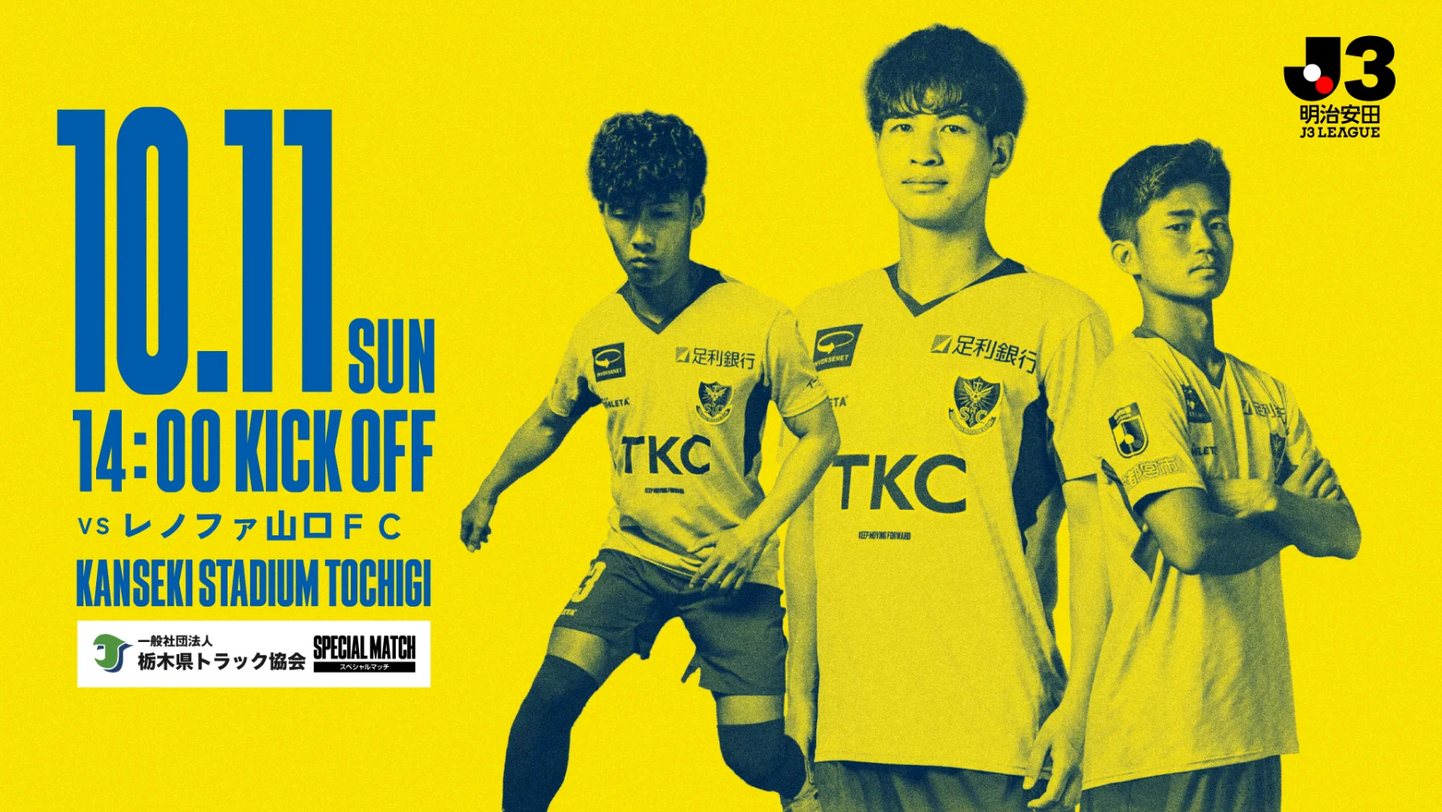
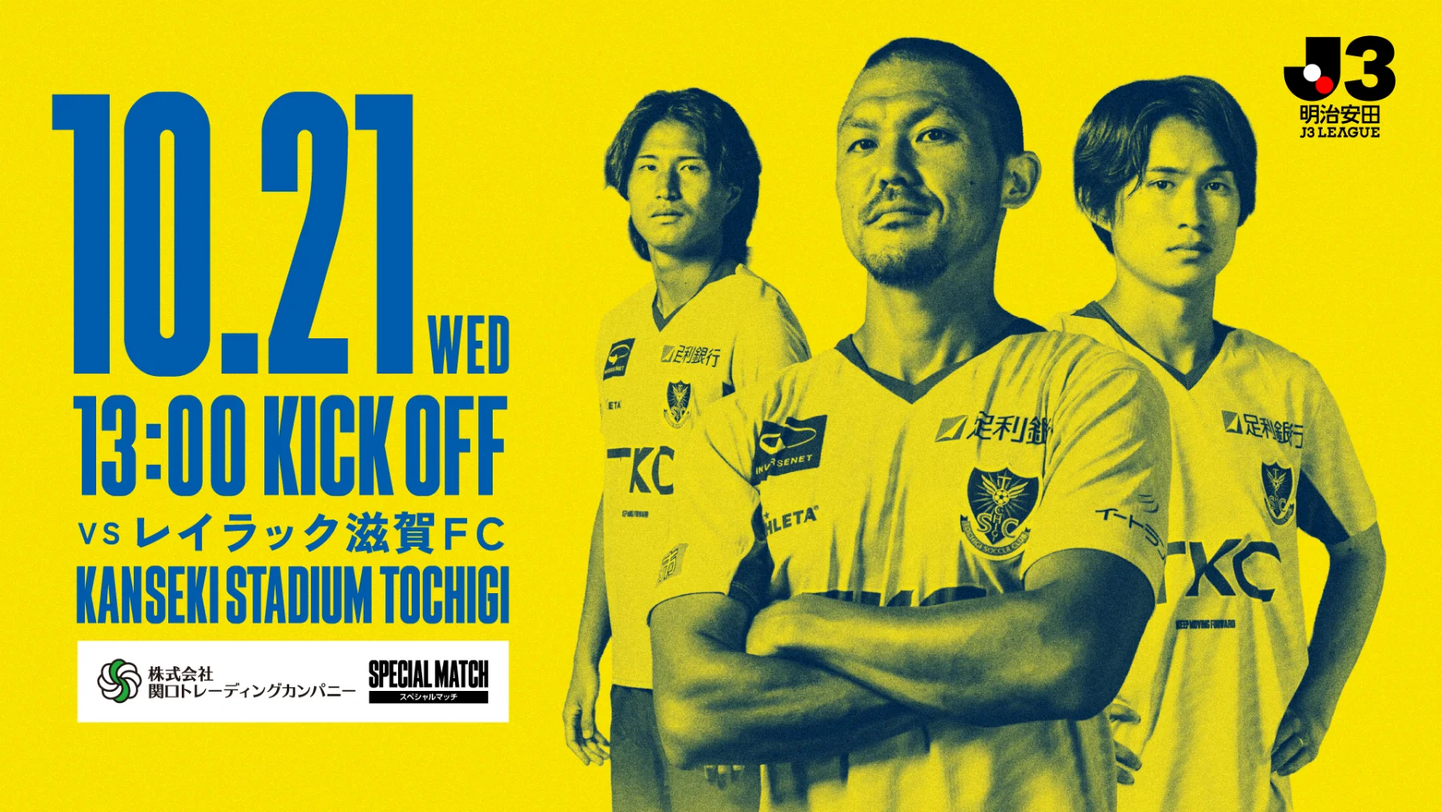
Add files via upload

diff --git a/check/index.html b/check/index.html
@@ -14,7 +14,7 @@ if(location.hostname.endsWith('github.io')){
 }
 </script>
 <meta name="viewport" content="width=device-width, initial-scale=1.0">
-<title>栃木SC ホームゲームLP ｜ 10/11 レノファ山口FC戦</title>
+<title>栃木SC ホームゲームLP ｜ 10/21 レイラック滋賀FC戦</title>
 <link rel="icon" type="image/png" href="assets/img/favicon.png">
 <link rel="apple-touch-icon" href="assets/img/appleTouchIcon.png">
 <link rel="preconnect" href="https://fonts.googleapis.com">
@@ -526,14 +526,14 @@ if(location.hostname.endsWith('github.io')){
     <!-- MATCH CARD -->
   <div class="match">
     <div class="mt-meta">
-      <div class="mt-league">2026/27 明治安田J3リーグ 第10節</div>
-      <div class="mt-ko">14:00 KICK OFF</div>
+      <div class="mt-league">2026/27 明治安田J3リーグ 第12節</div>
+      <div class="mt-ko">13:00 KICK OFF</div>
       <div class="mt-ven">カンセキスタジアムとちぎ</div>
     </div>
     <div class="teams">
       <div class="team"><div class="em" style="background-image:var(--tsc);background-size:116%;background-repeat:no-repeat;background-position:center"></div><div class="nm">栃木SC</div><div class="role">HOME</div></div>
       <div class="vs">VS</div>
-      <div class="team"><div class="em" style="background-image:var(--opp);background-size:contain;background-repeat:no-repeat;background-position:center"></div><div class="nm" style="white-space:nowrap;font-size:min(18px,calc((100vw - 87px)*0.0638))">レノファ山口FC</div><div class="role">VISITOR</div></div>
+      <div class="team"><div class="em" style="background-image:var(--opp);background-size:contain;background-repeat:no-repeat;background-position:center"></div><div class="nm" style="white-space:nowrap;font-size:min(18px,calc((100vw - 87px)*0.0561))">レイラック滋賀FC</div><div class="role">VISITOR</div></div>
     </div>
   </div>
 
@@ -586,36 +586,24 @@ probe(pas,function(p){probe(fut,function(n){
     <div class="diag"></div>
   </div>
 
-  <!-- 10/11 山口戦 会場運営変更のお知らせ -->
-  <style>
-  .ops-notice{margin:18px 16px 8px;padding:15px 16px;background:#fff;border:2px solid var(--yellow);border-left:6px solid var(--yellow);border-radius:12px;box-shadow:0 3px 12px rgba(4,34,66,.10);display:flex;align-items:flex-start;gap:12px}
-  .ops-notice .ic{flex:none;width:28px;height:28px;border-radius:50%;background:var(--yellow);color:var(--navy);font-family:var(--latin);font-weight:900;display:flex;align-items:center;justify-content:center;line-height:1}
-  .ops-notice .tx{min-width:0;font-size:14px;font-weight:700;line-height:1.7;color:var(--navy)}
-  .ops-notice .more{display:inline-block;margin-top:6px;color:var(--blue);font-weight:900;text-decoration:underline;text-underline-offset:2px}
-  </style>
-  <div class="ops-notice" role="note">
-    <div class="ic" aria-hidden="true">!</div>
-    <div class="tx">各イベント等の実施に伴い、通常より一部会場運用を変更させていただきます。<br><a class="more" href="https://www.tochigisc.jp/news/1954" target="_blank" rel="noopener">詳細はこちら ›</a></div>
-  </div>
-
   <!-- スペシャルイベント -->
-  <section class="special band-white"><div class="head"><span class="hicon"><svg viewBox="0 0 24 24"><path d="M4 8h16v11a1 1 0 0 1-1 1H5a1 1 0 0 1-1-1z"/><path d="M4 8l2-4h12l2 4"/><path d="M9 12h6"/></svg></span><span class="disp">SPECIAL EVENT</span><h2><span class="mk">スペシャルイベント</span></h2></div><div class="sp-stack"><div class="sp-card"><div class="sp-photo np" data-lz style="background-image:url(assets/img/spSub9.webp)"></div><div class="sp-body"><h3 class="sp-h">栃木県トラック協会　オリジナルホッケーシャツプレゼント</h3><p class="sp-lead">抽選で5,000名様にプレゼント！</p><p>◼協賛：一般社団法人栃木県トラック協会</p><div class="sp-terms"><div><b>◼配布時間</b>： 10:30～<br></div><div>※入場時に配布する栃木県トラック協会のチラシにより抽選いたします）<br></div><div><b>◼配布場所</b>： Aゲート・Cゲート（ビジターゲートを除く）<br></div><div><b>◼抽選方法</b></div><div>・入場時にゲートで配布される「栃木県トラック協会チラシ」にて当落をご確認ください。</div><div>・当選された方のホッケーシャツ引換時間や引換場所等は、配布チラシをご確認ください。</div><div>※チケットをお持ちの来場者お一人様につき1枚の配布となります（未就学児・再入場時は対象外）。</div><div>※当選された方の引換は当日の引換時間内のみです。</div><div>※十分な数のチラシ（10,000枚）をご用意しておりますので、当日は入場ゲートに早くから並ばず、栃木県トラック協会の場外イベントをお楽しみください。</div></div><a class="sp-link" href="https://www.tochigisc.jp/news/1904" target="_blank" rel="noopener">詳細はこちら ›</a></div></div><div class="sp-card"><div class="sp-photo np" data-lz style="background-image:url(assets/img/spSub10.webp)"></div><div class="sp-body"><h3 class="sp-h">栃木県トラック協会　トラックステージ</h3><p class="sp-lead">今年のトラックステージにはニッチェのお二人も登場！<br>その他のステージイベントも盛りだくさん。</p><div class="sp-terms"><div><b>◼時間</b>：10:15～13:30頃</div><div>※ニッチェのお二人の登場時間やその他出演者等のイベント詳細は後日お知らせいたします。</div><div><b>◼場所</b>：アプローチデッキ下　トラックステージ</div></div><a class="sp-link" href="https://www.tochigisc.jp/news/1904" target="_blank" rel="noopener">詳細はこちら ›</a></div></div></div></section>
+  
 
   <div class="sec-div" aria-hidden="true"></div>
     <!-- イベント -->
   <section class="band-sec band-white" id="event">
     <div class="head"><span class="hicon"><svg viewBox="0 0 24 24"><path d="M4 8h16v11a1 1 0 0 1-1 1H5a1 1 0 0 1-1-1z"/><path d="M4 8l2-4h12l2 4"/><path d="M9 12h6"/></svg></span><span class="disp">EVENT</span><h2><span class="mk">イベント</span></h2></div>
     
-    <div class="dots"><i class="on"></i><i></i><i></i><i></i><i></i><i></i></div>
-    <div class="rail"><div class="card"><div class="ph lb-img" data-lz style="background-image:url(assets/img/evSub11.webp);background-size:contain;background-position:center;background-repeat:no-repeat;background-color:#fff"></div><div class="cb"><h4>【先着3,000名様】<br>栃木県トラック協会ブース 大抽選会</h4><div class="meta"><b>【整理券配布】</b><br>◼配布時間：9:45～<br>◼配布場所：栃木県トラック協会引換ブース<br><b>【抽選会】</b><br>◼抽選時間：10:00～<br>◼抽選場所：栃木県トラック協会抽選会ブース<br>※各ブースはアプローチデッキ下広場となります</div><div class="ev-desc"><br>豪華景品が当たる、空くじなしの大抽選会を実施！どなたでも1回ご参加いただけます。<br><br> ◼主な賞品<br>・全選手サイン入りユニフォーム（ホーム/アウェイ）<br>・選手サイン入りTシャツ<br>・サイン入りホッケーシャツ<br>・サイン色紙<br>・協会オリジナルグッズ　など</div><a class="sp-link" href="https://www.tochigisc.jp/news/1904" target="_blank" rel="noopener">詳細はこちら ›</a></div></div><div class="card"><div class="ph lb-img" data-lz style="background-image:url(assets/img/evSub12.webp);background-size:contain;background-position:center;background-repeat:no-repeat;background-color:#fff"></div><div class="cb"><h4>栃木県トラック協会<br>体験イベント＆グルメブース</h4><div class="meta">◼時間：10:00～14:00<br>◼場所：アプローチデッキ・アプローチデッキ下</div><div class="ev-desc">◼栃木県トラック協会 各支部飲食ブース<br>県内各支部による自慢のグルメが勢ぞろい！<br>※原則現金払い<br>◼子供用電動トラック体験<br>ラジコン感覚でトラックドライバーの仕事を体験できます。<br>（小学生未満限定 / 体重25kg以下 / リモコン操作体験あり）<br>◼大型トラック・冷凍車 乗車体験<br>大型トレーラーや大型冷凍車の運転席に乗車できます。</div><a class="sp-link" href="https://www.tochigisc.jp/news/1904" target="_blank" rel="noopener">詳細はこちら ›</a></div></div><div class="card"><div class="ph lb-img" data-lz style="background-image:url(assets/img/evSub16.webp);background-size:contain;background-position:center;background-repeat:no-repeat;background-color:#fff"></div><div class="cb"><h4>トラックステージ①<br>星の杜中学校・高等学校部活動によるパフォーマンス</h4><div class="meta">時間：10:15〜10:50<br>場所：アプローチデッキ下 </div><div class="ev-desc">星の杜中学校・高等学校の3つの部活動にお越しいただき、パフォーマンスを行っていただきます！<br>10:20 箏曲部<br>10:30 チアリーディング部<br>10:45 書道部<br>※出演時間は多少前後する場合がございます</div></div></div><div class="card"><div class="ph lb-img" data-lz style="background-image:url(assets/img/evSub15.webp);background-size:contain;background-position:center;background-repeat:no-repeat;background-color:#fff"></div><div class="cb"><h4>トラックステージ②<br>SCチアーズ&SCチアーズスクール生</h4><div class="meta">時間：11:15〜11:45<br>場所：アプローチデッキ下</div><div class="ev-desc">SCチアーズ&SCチアーズスクール生によるトラックステージスペシャルパフォーマンスをお届けします！</div></div></div><div class="card"><div class="ph lb-img" data-lz style="background-image:url(assets/img/evSub14.webp);background-size:contain;background-position:center;background-repeat:no-repeat;background-color:#fff"></div><div class="cb"><h4>トラックステージ③<br>栃木SC TikTok LIVE 応援モデル</h4><div class="meta">時間：12:00〜12:15<br>場所：アプローチデッキ下</div><div class="ev-desc">栃木SC TikTok LIVE 応援モデルによるトークショーを実施します！</div></div></div><div class="card"><div class="ph lb-img" data-lz style="background-image:url(assets/img/evSub13.webp);background-size:contain;background-position:center;background-repeat:no-repeat;background-color:#fff"></div><div class="cb"><h4>Supported by 株式会社斎藤<br>選手直送！サインボールプレゼント</h4><div class="meta">◼時間：試合開始約45分前（ウォーミングアップ開始前）</div><div class="ev-desc">ウォーミングアップに向かう選手たちが、スタンドの皆さまへ直筆サイン入りボールを投げ入れ、プレゼントいたします。<br>どの選手のボールが飛んでくるかは当日のお楽しみ！</div><a class="sp-link" href="https://www.tochigisc.jp/news/1886" target="_blank" rel="noopener">詳細はこちら ›</a></div></div></div>
+    
+    <div class="rail"><div class="card"><div class="ph lb-img" data-lz style="background-image:url(assets/img/evSub1.webp);background-size:contain;background-position:center;background-repeat:no-repeat;background-color:#fff"></div><div class="cb"><h4>Supported by 株式会社斎藤　選手直送！サインボールプレゼント</h4><div class="meta">時間：試合開始約45分前（ウォーミングアップ開始前）</div><div class="ev-desc">ウォーミングアップに向かう選手たちが、スタンドの皆さまへ直筆サイン入りボールを投げ入れ、プレゼントいたします。<br>どの選手のボールが飛んでくるかは当日のお楽しみ！</div><a class="sp-link" href="https://www.tochigisc.jp/news/1886" target="_blank" rel="noopener">詳細はこちら ›</a></div></div></div>
   </section>
 
   <!-- グルメ -->
   <section class="band-sec band-soft" id="gourmet">
     <div class="head"><span class="hicon"><svg viewBox="0 0 24 24"><path d="M6 3v7a2 2 0 0 0 4 0V3M8 10v11"/><path d="M16 3c-1.5 0-2.5 2-2.5 4.5S14.5 12 16 12v9"/></svg></span><span class="disp">STADIUM GOURMET</span><h2><span class="mk">グルメ</span></h2><span class="subbrand">BISTRO TOCKEY</span></div>
-    <div class="dots"><i class="on"></i><i></i><i></i><i></i></div>
-    <div class="rail"><div class="card"><div class="ph lb-img" data-lz style="background-image:url(assets/img/goSub1.webp);background-size:contain;background-position:center;background-repeat:no-repeat;background-color:#fff"></div><div class="cb"><h4>オムライス</h4><div class="meta"><span class="shop">玉子屋てっちゃん</span><span class="price">¥1,000</span><span class="desc">新鮮卵と栃木県産こしひかりのオムライスです。</span></div></div></div><div class="card"><div class="ph lb-img" data-lz style="background-image:url(assets/img/goSub2.webp);background-size:contain;background-position:center;background-repeat:no-repeat;background-color:#fff"></div><div class="cb"><h4>ナポリタン</h4><div class="meta"><span class="shop">スポーツカフェ92</span><span class="price">¥750</span><span class="desc">ソーセージ、玉ねぎ、パプリカを自家製トマトソースとケチャップで！仕上げに粉チーズを！</span></div></div></div><div class="card"><div class="ph lb-img" data-lz style="background-image:url(assets/img/goSub3.webp);background-size:contain;background-position:center;background-repeat:no-repeat;background-color:#fff"></div><div class="cb"><h4>栃木・ご当地　佐野ラーメン</h4><div class="meta"><span class="shop">菊ちゃんラーメン</span><span class="price">¥890</span><span class="desc">栃木県のご当地ラーメン【佐野ラーメン】はあっさり醤油のスープに手打ち風麺の相性が抜群のお子様から大人まで食べやすいラーメンです。</span></div></div></div><div class="card"><div class="ph lb-img" data-lz style="background-image:url(assets/img/goSub4.webp);background-size:contain;background-position:center;background-repeat:no-repeat;background-color:#fff"></div><div class="cb"><h4>カフェモカ</h4><div class="meta"><span class="shop">ドードコーヒー</span><span class="price">¥702</span><span class="desc">当店オリジナルのブレンド豆を使用した本格エスプレッソとチョコレートソースを合わせますスイーツドリンク 見た目の可愛さもバッチリです。</span></div></div></div></div>
     
+    <div class="rail"></div>
+    <div class="sec-news"><p class="sn-lead">当日のグルメ情報満載！</p><a href="gourmet.html">グルメ情報をもっと見る <span class="arw">›</span></a></div>
   </section>
 
 
@@ -630,7 +618,7 @@ probe(pas,function(p){probe(fut,function(n){
   <section class="tl-sec">
     <div class="bg" data-lz style="background-image:var(--phTimeline)"></div>
     <div class="head"><span class="hicon"><svg viewBox="0 0 24 24"><circle cx="12" cy="12" r="9"/><path d="M12 7v5l3 2"/></svg></span><span class="disp">TIME TABLE</span><h2><span class="mk">当日のタイムライン</span></h2></div>
-    <div class="tl"><div class="row"><span class="dot"></span><div class="time">10:00</div><div class="c"><h4>シャトルバス運行開始（往路）</h4><p>雀宮駅発 → スタジアム行きの始発。早めの来場がおすすめ。</p></div></div><div class="row"><span class="dot"></span><div class="time">10:30</div><div class="c"><h4>優先入場 開始</h4><p>シーズンパスホルダー限定！場内のイベントや売店がスタート！</p></div></div><div class="row"><span class="dot"></span><div class="time">11:00</div><div class="c"><h4>一般入場 開始</h4></div></div><div class="row"><span class="dot"></span><div class="time">13:15</div><div class="c"><h4>ウォーミングアップ開始</h4><p>選手がピッチに登場。ウォーミングアップも必見！</p></div></div><div class="row"><span class="dot"></span><div class="time">13:45</div><div class="c"><h4>選手紹介</h4><p>かっこいい選手紹介映像でスタメンをチェック！</p></div></div><div class="row"><span class="dot"></span><div class="time">14:00</div><div class="c"><h4>KICK OFF</h4><p>いよいよ試合開始！</p></div></div><div class="row"><span class="dot"></span><div class="time">14:50</div><div class="c"><h4>ハーフタイム（15分間）</h4><p>腹ごしらえやトイレ休憩で後半に向けて準備をしよう！</p></div></div><div class="row"><span class="dot"></span><div class="time">15:50</div><div class="c"><h4>試合終了（目安）</h4><p>勝利したら、みんなで喜ぼう！</p></div></div><div class="row"><span class="dot"></span><div class="time">16:00</div><div class="c"><h4>シャトルバス運行開始（復路）</h4><p>スタジアム バス乗り場発 → 雀宮駅行きの始発。最終便は17:30発。</p></div></div></div>
+    <div class="tl"><div class="row"><span class="dot"></span><div class="time">10:00</div><div class="c"><h4>シャトルバス運行開始（往路）</h4><p>雀宮駅発 → スタジアム行きの始発。早めの来場がおすすめ。</p></div></div><div class="row"><span class="dot"></span><div class="time">10:30</div><div class="c"><h4>優先入場 開始</h4><p>シーズンパスホルダー限定！場内のイベントや売店がスタート！</p></div></div><div class="row"><span class="dot"></span><div class="time">11:00</div><div class="c"><h4>一般入場 開始</h4></div></div><div class="row"><span class="dot"></span><div class="time">12:15</div><div class="c"><h4>ウォーミングアップ開始</h4><p>選手がピッチに登場。ウォーミングアップも必見！</p></div></div><div class="row"><span class="dot"></span><div class="time">12:45</div><div class="c"><h4>選手紹介</h4><p>かっこいい選手紹介映像でスタメンをチェック！</p></div></div><div class="row"><span class="dot"></span><div class="time">13:00</div><div class="c"><h4>KICK OFF</h4><p>いよいよ試合開始！</p></div></div><div class="row"><span class="dot"></span><div class="time">13:50</div><div class="c"><h4>ハーフタイム（15分間）</h4><p>腹ごしらえやトイレ休憩で後半に向けて準備をしよう！</p></div></div><div class="row"><span class="dot"></span><div class="time">14:50</div><div class="c"><h4>試合終了（目安）</h4><p>勝利したら、みんなで喜ぼう！</p></div></div><div class="row"><span class="dot"></span><div class="time">15:00</div><div class="c"><h4>シャトルバス運行開始（復路）</h4><p>スタジアム バス乗り場発 → 雀宮駅行きの始発。最終便は16:30発。</p></div></div></div>
   </section>
 
   <!-- 会場マップ -->
@@ -670,16 +658,16 @@ probe(pas,function(p){probe(fut,function(n){
       <button class="access-tab" data-acc="train"><svg viewBox="0 0 24 24"><rect x="6" y="3" width="12" height="14" rx="2"/><path d="M6 11h12"/><circle cx="9" cy="14" r="1"/><circle cx="15" cy="14" r="1"/><path d="M8 21l2-3M16 21l-2-3"/></svg>電車・徒歩</button>
     </div>
     <div class="access-panel" data-panel="car">
-      <ul class="apts"><li><b>東北道 鹿沼IC</b>から約15分（さつきロード経由）</li><li><b>北関東道 壬生IC</b>から約20分／<b>宇都宮上三川IC</b>から約15分</li><li><b>駐車場</b>：南第1・第2（公園南側）／南管理用（公園西側）／北第3（公園北側）｜<b>2時間まで無料</b></li>
+      <ul class="apts"><li><b>東北道 鹿沼IC</b>から約15分（さつきロード経由）</li><li><b>北関東道 壬生IC</b>から約20分／<b>宇都宮上三川IC</b>から約15分</li><li><b>駐車場</b>：南第1・第2（公園南側）／西・南管理用（公園西側）／北第3（公園北側）｜<b>2時間まで無料</b></li>
       <li><b>精算</b>：現金（千円札・硬貨）／クレジットカード／交通系ほか電子マネー</li>
-      <li><b>北第1・北第2駐車場（予約制）</b>｜スタジアム目の前・栃木SC販売・事前予約で当日スムーズ｜1台 <b>¥2,500</b><br><span class="pk-sale">9/17(木) 12:00〜 CLUB.T会員先行販売</span></li><li><b>西駐車場（予約制）</b>｜栃木SC販売・事前予約で当日スムーズ｜1台 <b>¥2,000</b></li><li><b>akippa 予約制</b>（約500台)｜事前予約で当日スムーズ</li></ul>
+      <li><b>北第1・北第2駐車場（予約制）</b>｜スタジアム目の前・栃木SC販売・事前予約で当日スムーズ｜1台 <b>¥1,500</b><br><span class="pk-sale">9/24(木) 12:00〜 CLUB.T会員先行販売</span></li><li><b>akippa 予約制</b>（約500台)｜事前予約で当日スムーズ</li></ul>
       <p class="apnote">※2千円・5千円・1万円札は使用不可／他イベント開催時は満車の場合あり／近隣商業施設への駐車はご遠慮ください／駐車券を紛失した場合：0120-553-350</p>
       
-      <div class="alinks"><a href="https://www.jleague-ticket.jp/club/ts/" target="_blank" rel="noopener">北・西駐車場を予約する ›</a><a href="https://www.akippa.com/tochigisc/" target="_blank" rel="noopener">akippaで予約する ›</a></div>
+      <div class="alinks"><a href="https://www.jleague-ticket.jp/club/ts/" target="_blank" rel="noopener">北駐車場を予約する ›</a><a href="https://www.akippa.com/tochigisc/" target="_blank" rel="noopener">akippaで予約する ›</a></div>
     </div>
     <div class="access-panel" data-panel="shuttle" hidden>
-      <ul class="apts"><li><b>往路</b>：JR雀宮駅 東口のりば → 南第２駐車場（約10分）</li><li><b>復路</b>：南第２駐車場→ JR雀宮駅東口</li><li><b>運賃</b>：往復500円／片道300円（高校生以下無料・学生証提示）</li></ul>
-      <div class="shuttle-time"><div class="stl">発車時刻 <span class="var">※乗車状況により5分程度前後します</span></div><div class="strow"><span>往路</span><b>10:00 /10:30 / 11:00 / 11:30 / 12:00 / 12:30 / 13:00 / 13:30 / 14:00（最終）</b></div><div class="strow"><span>復路</span><b>16:00 / 16:15 / 16:30 / 16:45 / 17:00 / 17:15 / 17:30（最終）</b></div></div>
+      <ul class="apts"><li><b>往路</b>：JR雀宮駅 東口のりば → スタジアム（約10分）</li><li><b>復路</b>：スタジアム バスベイ乗り場（アプローチデッキ南側）→ 雀宮駅</li><li><b>運賃</b>：往復500円／片道300円（高校生以下無料・学生証提示）</li></ul>
+      <div class="shuttle-time"><div class="stl">発車時刻 <span class="var">※乗車状況により5分程度前後します</span></div><div class="strow"><span>往路</span><b>10:00 / 10:30 / 11:00 / 11:30 / 12:00 / 12:30 / 13:00（最終）</b></div><div class="strow"><span>復路</span><b>15:00 / 15:15 / 15:30 / 15:45 / 16:00 / 16:15 / 16:30（最終）</b></div></div>
       <ul class="apts"><li>乗車券は雀宮駅東口のりばで購入（観戦チケットをご提示ください）</li><li>Suica・PASMO・バスカードは利用できません（お支払いは現金のみです）</li><li>乗車券は当日限り有効／観戦目的の方のみご利用いただけます</li></ul>
       
     </div>
@@ -696,7 +684,7 @@ probe(pas,function(p){probe(fut,function(n){
     <div class="navy-ov"></div>
     <div class="in">
       <h3>チケットを購入する</h3>
-      <p>10.11(日) 14:00 KICK OFF ／ レノファ山口FC戦</p><div class="tk-sale"><span class="tk-sale-h">チケット販売開始</span><span class="tk-sale-d">9/17（CLUB.T会員先行）・9/19（一般）｜各 12:00〜</span></div><div class="pt-h">チケット料金（1試合）</div><div class="pt-flex">この試合は <b>★★★プライス</b></div><div class="ptbl-scroll"><table class="ptbl"><thead><tr><th rowspan="2">席種</th><th colspan="2">前売</th><th colspan="2" class="g">当日</th></tr><tr><th>小中高</th><th>大人</th><th class="g">小中高</th><th>大人</th></tr></thead><tbody><tr><td>メインSS指定席</td><td colspan="2">¥5,700</td><td colspan="2" class="g">¥6,200</td></tr><tr><td>メインS指定席</td><td>¥2,100</td><td>¥4,800</td><td class="g">¥2,600</td><td>¥5,300</td></tr><tr><td>メインS自由席</td><td>¥2,000</td><td>¥4,300</td><td class="g">¥2,500</td><td>¥4,800</td></tr><tr><td>バック自由席</td><td>¥1,800</td><td>¥3,700</td><td class="g">¥2,300</td><td>¥4,200</td></tr><tr><td>ホームゴール裏自由席</td><td>¥1,200</td><td>¥2,700</td><td class="g">¥1,700</td><td>¥3,200</td></tr><tr><td>ビジターゴール裏自由席</td><td>¥1,200</td><td>¥2,700</td><td class="g">¥1,700</td><td>¥3,200</td></tr><tr><td>パノラマシート</td><td>¥2,100</td><td>¥4,800</td><td class="g">¥2,600</td><td>¥5,300</td></tr><tr><td>パーティーシート</td><td colspan="2">¥19,200</td><td colspan="2" class="g">¥21,200</td></tr><tr><td>テーブル席</td><td colspan="2">¥6,500</td><td colspan="2" class="g">¥7,000</td></tr><tr><td>車椅子席</td><td>¥2,100</td><td>¥4,800</td><td class="g">¥2,600</td><td>¥5,300</td></tr></tbody></table></div><div class="pt-note">※ 料金は試合により3段階で変動（フレックスプライス）。この試合は<b>★★★</b>。テーブル・メインSS指定・パーティーは全年齢共通料金。ホーム／ビジターゴール裏は学割（当日¥2,300）あり。<b>CLUB.T会員はさらにお得な会員価格</b>があります。<br><a href="https://www.tochigisc.jp/ticket/" target="_blank" rel="noopener">詳しい料金・購入方法（公式）›</a></div>
+      <p>10.21(水) 13:00 KICK OFF ／ レイラック滋賀FC戦</p><div class="tk-sale"><span class="tk-sale-h">チケット販売開始</span><span class="tk-sale-d">9/24（CLUB.T会員先行）・9/26（一般）｜各 12:00〜</span></div><div class="pt-h">チケット料金（1試合）</div><div class="pt-flex">この試合は <b>★プライス</b></div><div class="ptbl-scroll"><table class="ptbl"><thead><tr><th rowspan="2">席種</th><th colspan="2">前売</th><th colspan="2" class="g">当日</th></tr><tr><th>小中高</th><th>大人</th><th class="g">小中高</th><th>大人</th></tr></thead><tbody><tr><td>メインSS指定席</td><td colspan="2">¥3,800</td><td colspan="2" class="g">¥4,300</td></tr><tr><td>メインS指定席</td><td>¥1,500</td><td>¥3,200</td><td class="g">¥2,000</td><td>¥3,700</td></tr><tr><td>メインS自由席</td><td>¥1,400</td><td>¥2,800</td><td class="g">¥1,900</td><td>¥3,300</td></tr><tr><td>バック自由席</td><td>¥1,200</td><td>¥2,400</td><td class="g">¥1,700</td><td>¥2,900</td></tr><tr><td>ホームゴール裏自由席</td><td>¥700</td><td>¥1,900</td><td class="g">¥1,200</td><td>¥2,400</td></tr><tr><td>ビジターゴール裏自由席</td><td>¥700</td><td>¥1,900</td><td class="g">¥1,200</td><td>¥2,400</td></tr><tr><td>パノラマシート</td><td>¥1,500</td><td>¥3,200</td><td class="g">¥2,000</td><td>¥3,700</td></tr><tr><td>パーティーシート</td><td colspan="2">¥12,800</td><td colspan="2" class="g">¥14,800</td></tr><tr><td>テーブル席</td><td colspan="2">¥4,600</td><td colspan="2" class="g">¥5,100</td></tr><tr><td>車椅子席</td><td>¥1,500</td><td>¥3,200</td><td class="g">¥2,000</td><td>¥3,700</td></tr></tbody></table></div><div class="pt-note">※ 料金は試合により3段階で変動（フレックスプライス）。この試合は<b>★</b>。テーブル・メインSS指定・パーティーは全年齢共通料金。ホーム／ビジターゴール裏は学割（当日¥1,500）あり。<b>CLUB.T会員はさらにお得な会員価格</b>があります。<br><a href="https://www.tochigisc.jp/ticket/" target="_blank" rel="noopener">詳しい料金・購入方法（公式）›</a></div>
       <a class="buy" href="https://www.jleague-ticket.jp/club/ts/" target="_blank" rel="noopener"><span>Jリーグチケットで購入</span><span class="arw">›</span></a><div class="tk-method">セブン-イレブン店頭でも購入可（チケットぴあ Pコード <b>592-970</b>）</div>
       <div class="note">※Jリーグチケットの購入にはJリーグIDが必要（前売がお得）。※当日券売場では<b>指定席の販売はありません</b>（指定席は事前購入を）。※駆け込みチケット：前半35分以降、当日券価格の<b>半額</b>で販売。</div>
     </div>
@@ -709,9 +697,9 @@ probe(pas,function(p){probe(fut,function(n){
   <!-- グッズ（売り場ゾーン） -->
   <section class="band-sec zone" id="goods">
     <div class="head"><span class="hicon"><svg viewBox="0 0 24 24"><path d="M6 8h12l-1 12H7z"/><path d="M9 8a3 3 0 0 1 6 0"/></svg></span><span class="disp">GOODS</span><h2><span class="mk">グッズ</span></h2></div>
-    <div class="dots"><i class="on"></i><i></i><i></i><i></i></div>
-        <div class="rail"><div class="card"><div class="ph lb-img" data-lz style="background-image:url(assets/img/gdSub5.webp);background-size:contain;background-position:center;background-repeat:no-repeat;background-color:#fff"></div><div class="cb"><span class="tag y">NEW</span><h4>カタカナラバーキーホルダー</h4><div class="meta"><span class="shop"></span><span class="price">¥770</span><span class="desc">シンプルにチーム名をカタカナ表記で表現したラバーキーホルダー。</span></div></div></div><div class="card"><div class="ph lb-img" data-lz style="background-image:url(assets/img/gdSub6.webp);background-size:contain;background-position:center;background-repeat:no-repeat;background-color:#fff"></div><div class="cb"><h4>ATHLETA×栃木SC ロングTシャツ</h4><div class="meta"><span class="shop"></span><span class="price">¥6,050</span><span class="desc">着心地の良いボディに、栃木SCらしさとATHLETAのスポーティーなエッセンスをプラス。観戦スタイルから普段使いまで、幅広いシーンで活躍する一枚です！</span></div></div></div><div class="card"><div class="ph lb-img" data-lz style="background-image:url(assets/img/gdSub7.webp);background-size:contain;background-position:center;background-repeat:no-repeat;background-color:#fff"></div><div class="cb"><h4>証明写真風ステッカー</h4><div class="meta"><span class="shop">ガチャ(ランダム)</span><span class="price">¥400</span><span class="desc">全選手展開、証明写真風のステッカーがガチャに登場。笑顔と真顔バージョンがセットになっています！ ■サイズ 54×86mm</span></div></div></div><div class="card"><div class="ph lb-img" data-lz style="background-image:url(assets/img/gdSub8.webp);background-size:contain;background-position:center;background-repeat:no-repeat;background-color:#fff"></div><div class="cb"><h4>ステンドグラス風キーホルダー</h4><div class="meta"><span class="shop"></span><span class="price">¥1,155</span><span class="desc">ステンドグラスのようなカラフルなデザインでトッキーを描いたキーホルダー。 光を受けて輝くような色鮮やかなデザインが魅力のアイテムです。</span></div></div></div></div>
     
+        <div class="rail"></div>
+    <div class="sec-news"><p class="sn-lead">新商品続々登場！</p><a href="goods.html">グッズ情報をもっと見る <span class="arw">›</span></a></div>
 
     </section>
 
